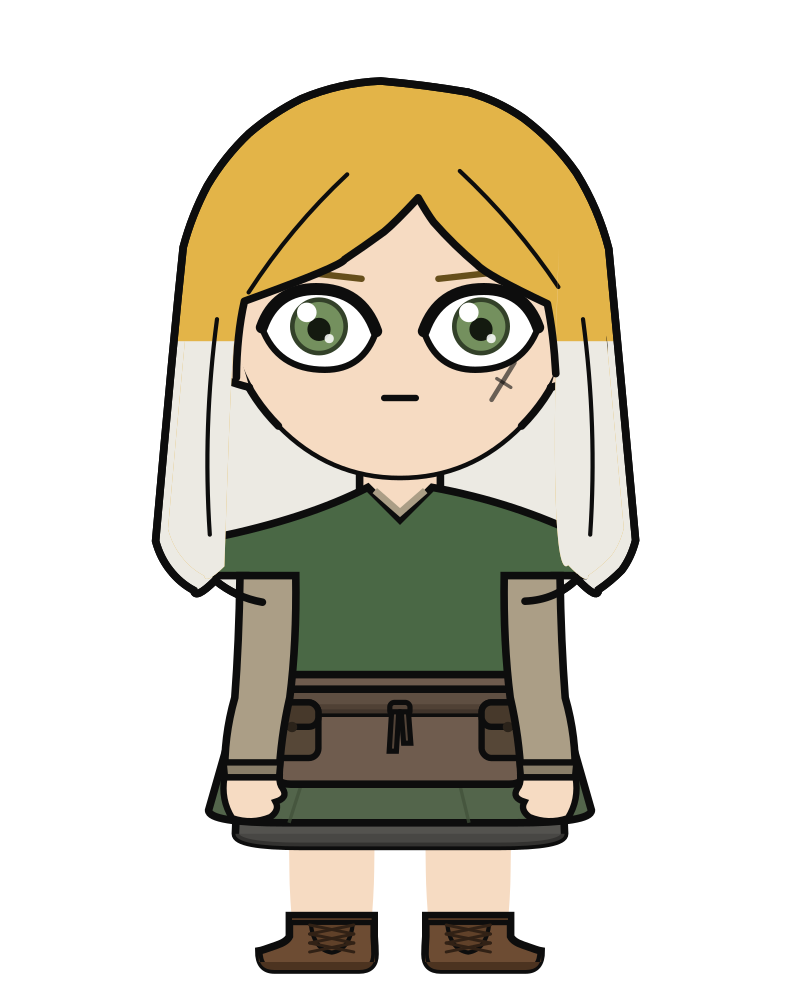
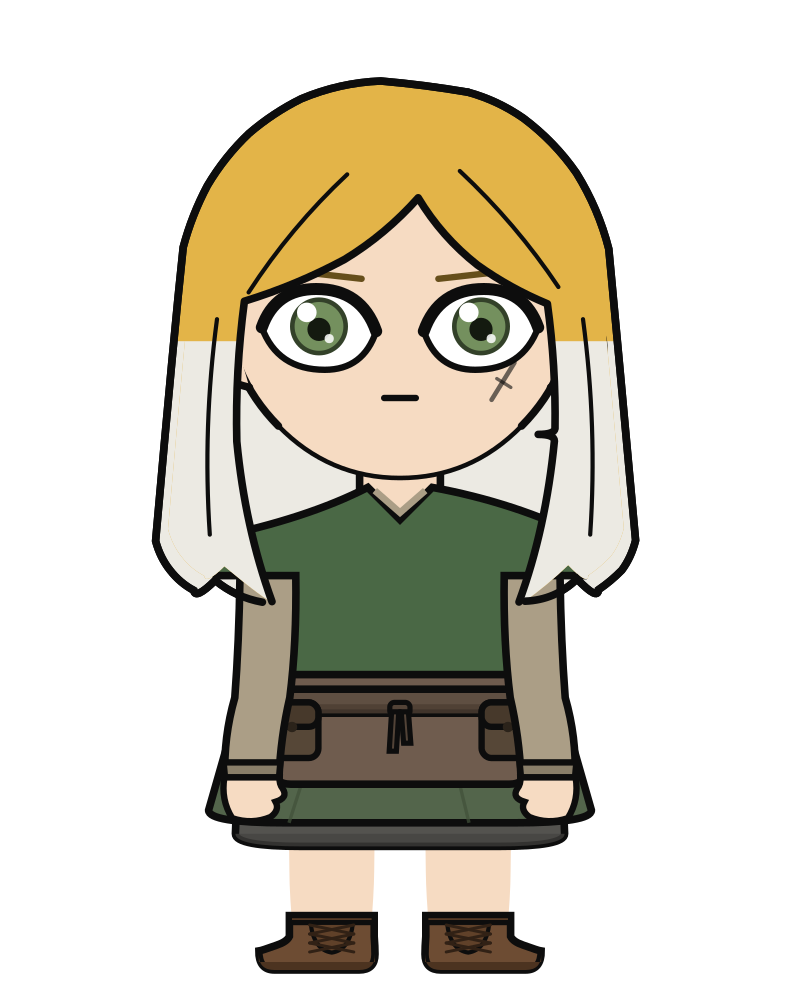
iterate satoko's hair

Changed region(s): [[0.625, 0.341, 0.7188, 0.62], [0.2812, 0.31, 0.3438, 0.62]]

diff --git a/src/anime_character_creator/character.py b/src/anime_character_creator/character.py
@@ -733,16 +733,18 @@ _LONG_EDGE: list[Segment] = [
     ((1.126, 1.670), (1.006, 1.550)),
     ((0.883, 1.665), (0.710, 1.672)),
 ]
-_LONG_LINE_START: Point = (-0.930, 0.434)
+_LONG_LINE_START: Point = (-0.767, 1.674)
 _LONG_LINE: list[Segment] = [
-    ((-0.927, 0.190), (-0.884, -0.000)),
-    ((-0.331, -0.200), (-0.315, -0.237)),
-    ((-0.204, -0.311), (-0.091, -0.394)),
-    ((-0.031, -0.443), (0.103, -0.587)),
-    ((0.154, -0.498), (0.191, -0.449)),
-    ((0.307, -0.317), (0.440, -0.205)),
-    ((0.493, -0.148), (0.838, 0.015)),
-    ((0.873, 0.187), (0.885, 0.412)),
+    ((-0.881, 1.265), (-0.927, 0.794)),
+    ((-0.936, 0.396), (-0.884, -0.000)),
+    ((-0.588, -0.091), (-0.315, -0.237)),
+    ((-0.083, -0.378), (0.103, -0.587)),
+    ((0.237, -0.364), (0.440, -0.205)),
+    ((0.624, -0.074), (0.838, 0.015)),
+    ((0.886, 0.371), (0.881, 0.724)),
+    ((0.876, 0.756), (0.785, 0.756)),
+    ((0.877, 0.756), (0.877, 0.792)),
+    ((0.828, 1.275), (0.716, 1.676)),
 ]
 # How far above the mass's own lower edge the gold gives way to the pale tips.
 # Larger than the crop's because these are falls rather than blades: the tips
@@ -751,6 +753,8 @@ _LONG_BASE_TIP = 1.677
 _LONG_TONE_LIFT = 0.62
 # How far inside the silhouette the front hair's fill boundary is pulled.
 _LONG_FILL_INSET = 0.05
+# How far the hairline's two ends are pulled toward the centre, in head radii.
+_LONG_LINE_TUCK = 0.04
 # Which segment ends on the crown's apex, so the two sides can be taken apart.
 _LONG_CROWN_AT = 9
 
@@ -780,6 +784,29 @@ def _long_scaled(fall: float) -> tuple[Point, list[Segment]]:
     return q(_LONG_EDGE_START), [(q(c), q(e)) for c, e in _LONG_EDGE]
 
 
+def _long_line(fall: float) -> tuple[Point, list[Segment]]:
+    """The traced hairline, with the stretch that the falls get and the face does
+    not: above the cheek line it is pinned to the head, below it it rides the
+    fall down."""
+    span = _LONG_BASE_TIP - _HAIR_CHEEK_Y
+    k = (fall - _HAIR_CHEEK_Y) / span if span else 1.0
+
+    def q(pt: Point) -> Point:
+        y = pt[1]
+        return (pt[0], _HAIR_CHEEK_Y + (y - _HAIR_CHEEK_Y) * k) if y > _HAIR_CHEEK_Y else pt
+
+    line = [(q(c), q(e)) for c, e in _LONG_LINE]
+    # The two ends are tucked toward the centre. At a fall's bottom tip the inner
+    # and outer edges of the hair converge, so the traced hairline's last point
+    # and the traced mass's last point are within a stroke of each other, and the
+    # fit can put the inner one a hair outside. This keeps the fill inside the
+    # silhouette without moving anything a viewer can see.
+    start = (q(_LONG_LINE_START)[0] + _LONG_LINE_TUCK, q(_LONG_LINE_START)[1])
+    ctrl, end = line[-1]
+    line[-1] = (ctrl, (end[0] - _LONG_LINE_TUCK, end[1]))
+    return start, line
+
+
 def _long_traced_mass(fall: float) -> tuple[Point, list[Segment]]:
     """The whole silhouette, closed behind the shoulders where it is never seen."""
     start, edge = _long_scaled(fall)
@@ -799,21 +826,38 @@ def _long_traced_fall_edge(fall: float) -> list[tuple[Point, list[Segment]]]:
 
 
 def _long_traced_hairline(fall: float) -> tuple[Point, list[Segment], list[Segment]]:
-    """Her parting and the inner edges of the falls, traced, with the fill closed
-    back over the crown just inside the mass so the mass carries the silhouette.
+    """Her parting, and the line down the inside of each fall.
 
-    The hairline does not scale with the build. It sits on a face, and the face
-    does not grow when the hair does.
+    That second part is the whole of what a viewer reads as hair lying in front
+    of the shoulder rather than behind it, and the first version of this cut did
+    not have it: the inner boundary was traced by sweeping bearings from the head
+    centre, and below the cheek a fall runs almost straight down, so a whole
+    fall's worth of it fell between two bearings. `out/trace/satoko.py` scans rows
+    there instead and the two readings agree where they meet, both being the same
+    drawn line.
+
+    `back` closes the fill on the mass's own contour, so the front hair covers
+    exactly the band between the hairline and the silhouette, which is what the
+    hair *is*. The two short connectors across each fall's bottom are the only
+    invented geometry here.
     """
-    _, edge = _long_scaled(fall)
-    start = _LONG_LINE_START
-    end = _LONG_LINE[-1][1]
-    k = 1.0 - _LONG_FILL_INSET
-    crown = _reverse(edge[0][1], edge[1 : _LONG_CROWN_AT * 2])[1]
-    back: list[Segment] = [((end[0], end[1] - 0.30), (end[0] * 1.02, -0.30))]
-    back += [((c[0] * k, c[1] * k), (e[0] * k, e[1] * k)) for c, e in crown]
-    back.append((((start[0] * 1.02 + start[0]) / 2, -0.30), start))
-    return start, list(_LONG_LINE), back
+    start, edge = _long_scaled(fall)
+    hs, hg = _long_line(fall)
+    end = hg[-1][1]
+    mass_start, mass_back = _reverse(start, edge)
+    inset = 1.0 - _LONG_FILL_INSET
+    # Straight chords, not bowed ones: a control placed off the line between two
+    # points on the silhouette can leave it, which at a fall's bottom tip put the
+    # fill 0.010 head radii outside its own outline.
+    back: list[Segment] = [
+        (((end[0] + mass_start[0]) / 2, (end[1] + mass_start[1]) / 2), mass_start)
+    ]
+    back += [
+        ((c[0] * inset, c[1] * inset), (e[0] * inset, e[1] * inset)) for c, e in mass_back[:-1]
+    ]
+    last = mass_back[-1][1]
+    back.append((((last[0] + hs[0]) / 2, (last[1] + hs[1]) / 2), hs))
+    return hs, hg, back
 
 
 def _long_traced_tip_edge(fall: float) -> list[tuple[Point, list[Segment]]]:

diff --git a/STATUS.md b/STATUS.md
@@ -299,7 +299,18 @@ expected: her `long_blunt` bell was tuned by eye in task 59 and was
 already close to the traced outline (`out/trace/satoko_port.png` overlays
 them).
 
-Two faults were found by looking, and both were mine rather than the
+**The line down the inside of each fall was missing** (the owner spotted
+it and painted it in). It is the line that says the hair hangs in front
+of the shoulder rather than behind it, and its absence was a limitation of
+how the boundary was read: a radial sweep from the head centre cannot
+describe that stretch, because below the cheek a fall runs almost straight
+down and a whole fall's worth of it falls between two bearings. Scanning
+rows there instead gives it, and the two readings agree where they meet,
+both being the same drawn line. `back` now closes on the mass's own
+contour, so the front hair covers exactly the band between the hairline
+and the silhouette, which is what hair is.
+
+Three faults were found by looking, and all three were mine rather than the
 trace's. The tone region left a gold wedge poking into the pale at the
 foot of each fall, because it was built from only those segments lying
 below the head centre, which is not a contiguous run; it now lifts the
@@ -311,7 +322,15 @@ curtain. That is precisely what the body-relative branch of `_hair_fall`
 exists for. `_long_scaled` now stretches only what lies below
 `_HAIR_CHEEK_Y` and leaves the crown alone, which is the split the hair
 contract has always documented, and the cut measures its length against
-the body again.
+the body again. The hairline gets the same treatment, since its lower half
+rides the falls and its upper half sits on a face that does not grow.
+
+The containment test earned its keep twice more here, on 0.010 head radii
+of fill outside the outline: once from a connector bowed off the line
+between two points of the silhouette, and once where a fall's inner and
+outer edges converge at its tip and the fit put the inner one a hair
+outside. Neither would have shown as a misplaced line, only as colour in
+the wrong place.
 
 **The tone boundary follows the blades now** (the owner's call,
 2026-08-07), and this is the state the chibi is locked at. `_crop_tip_edge`
